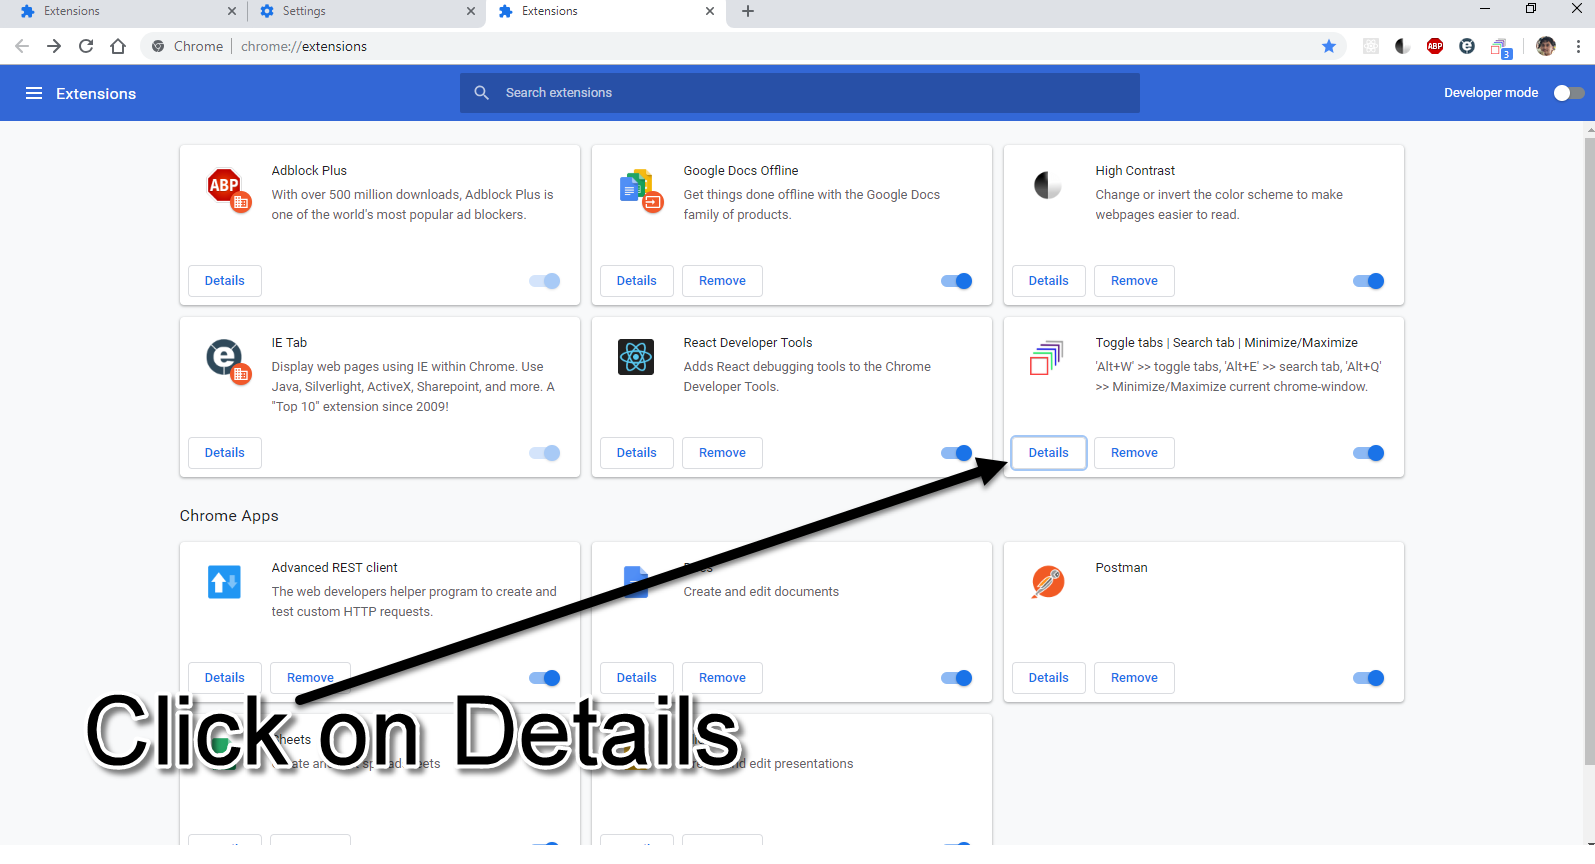
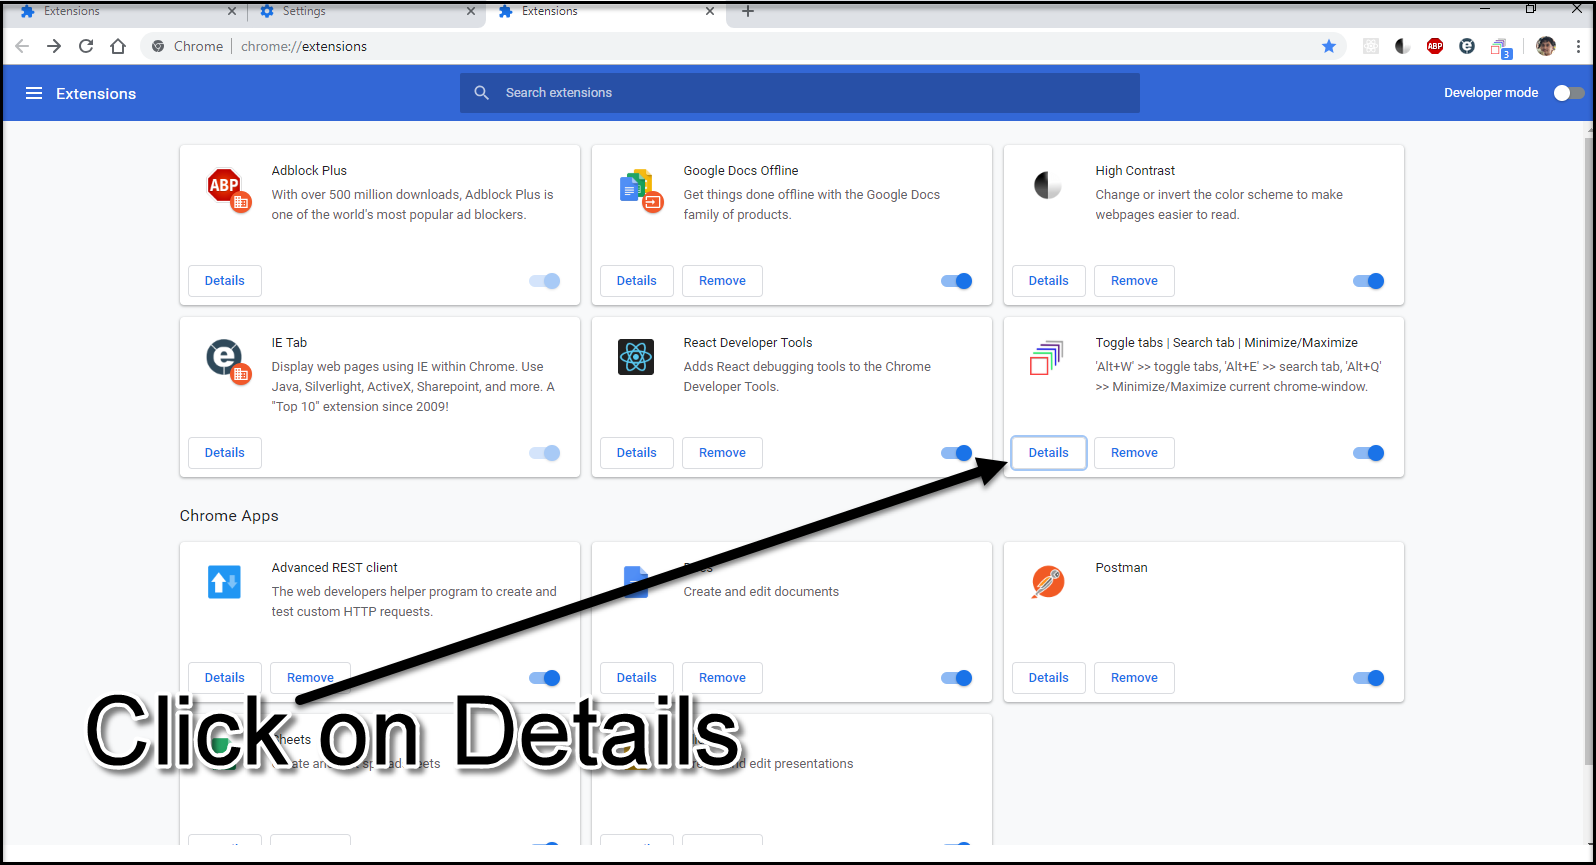
added outline to the screenshots & added footer to howtosetup file

diff --git a/howtosetup.html b/howtosetup.html
@@ -48,5 +48,8 @@
             <p class="subParagraphMargin bold background">Screenshot 9:</p>
             <img src="images/setup/screenshot-9.png" alt="Screenshot" height="100%" width="100%"/>
           </div>
+    <div class="copyrightInformationFooter">
+      &#169; All rights reserved by Amit Patil(gpamitranjit@gmail.com)
+    </div>
     </body>
 </html>
